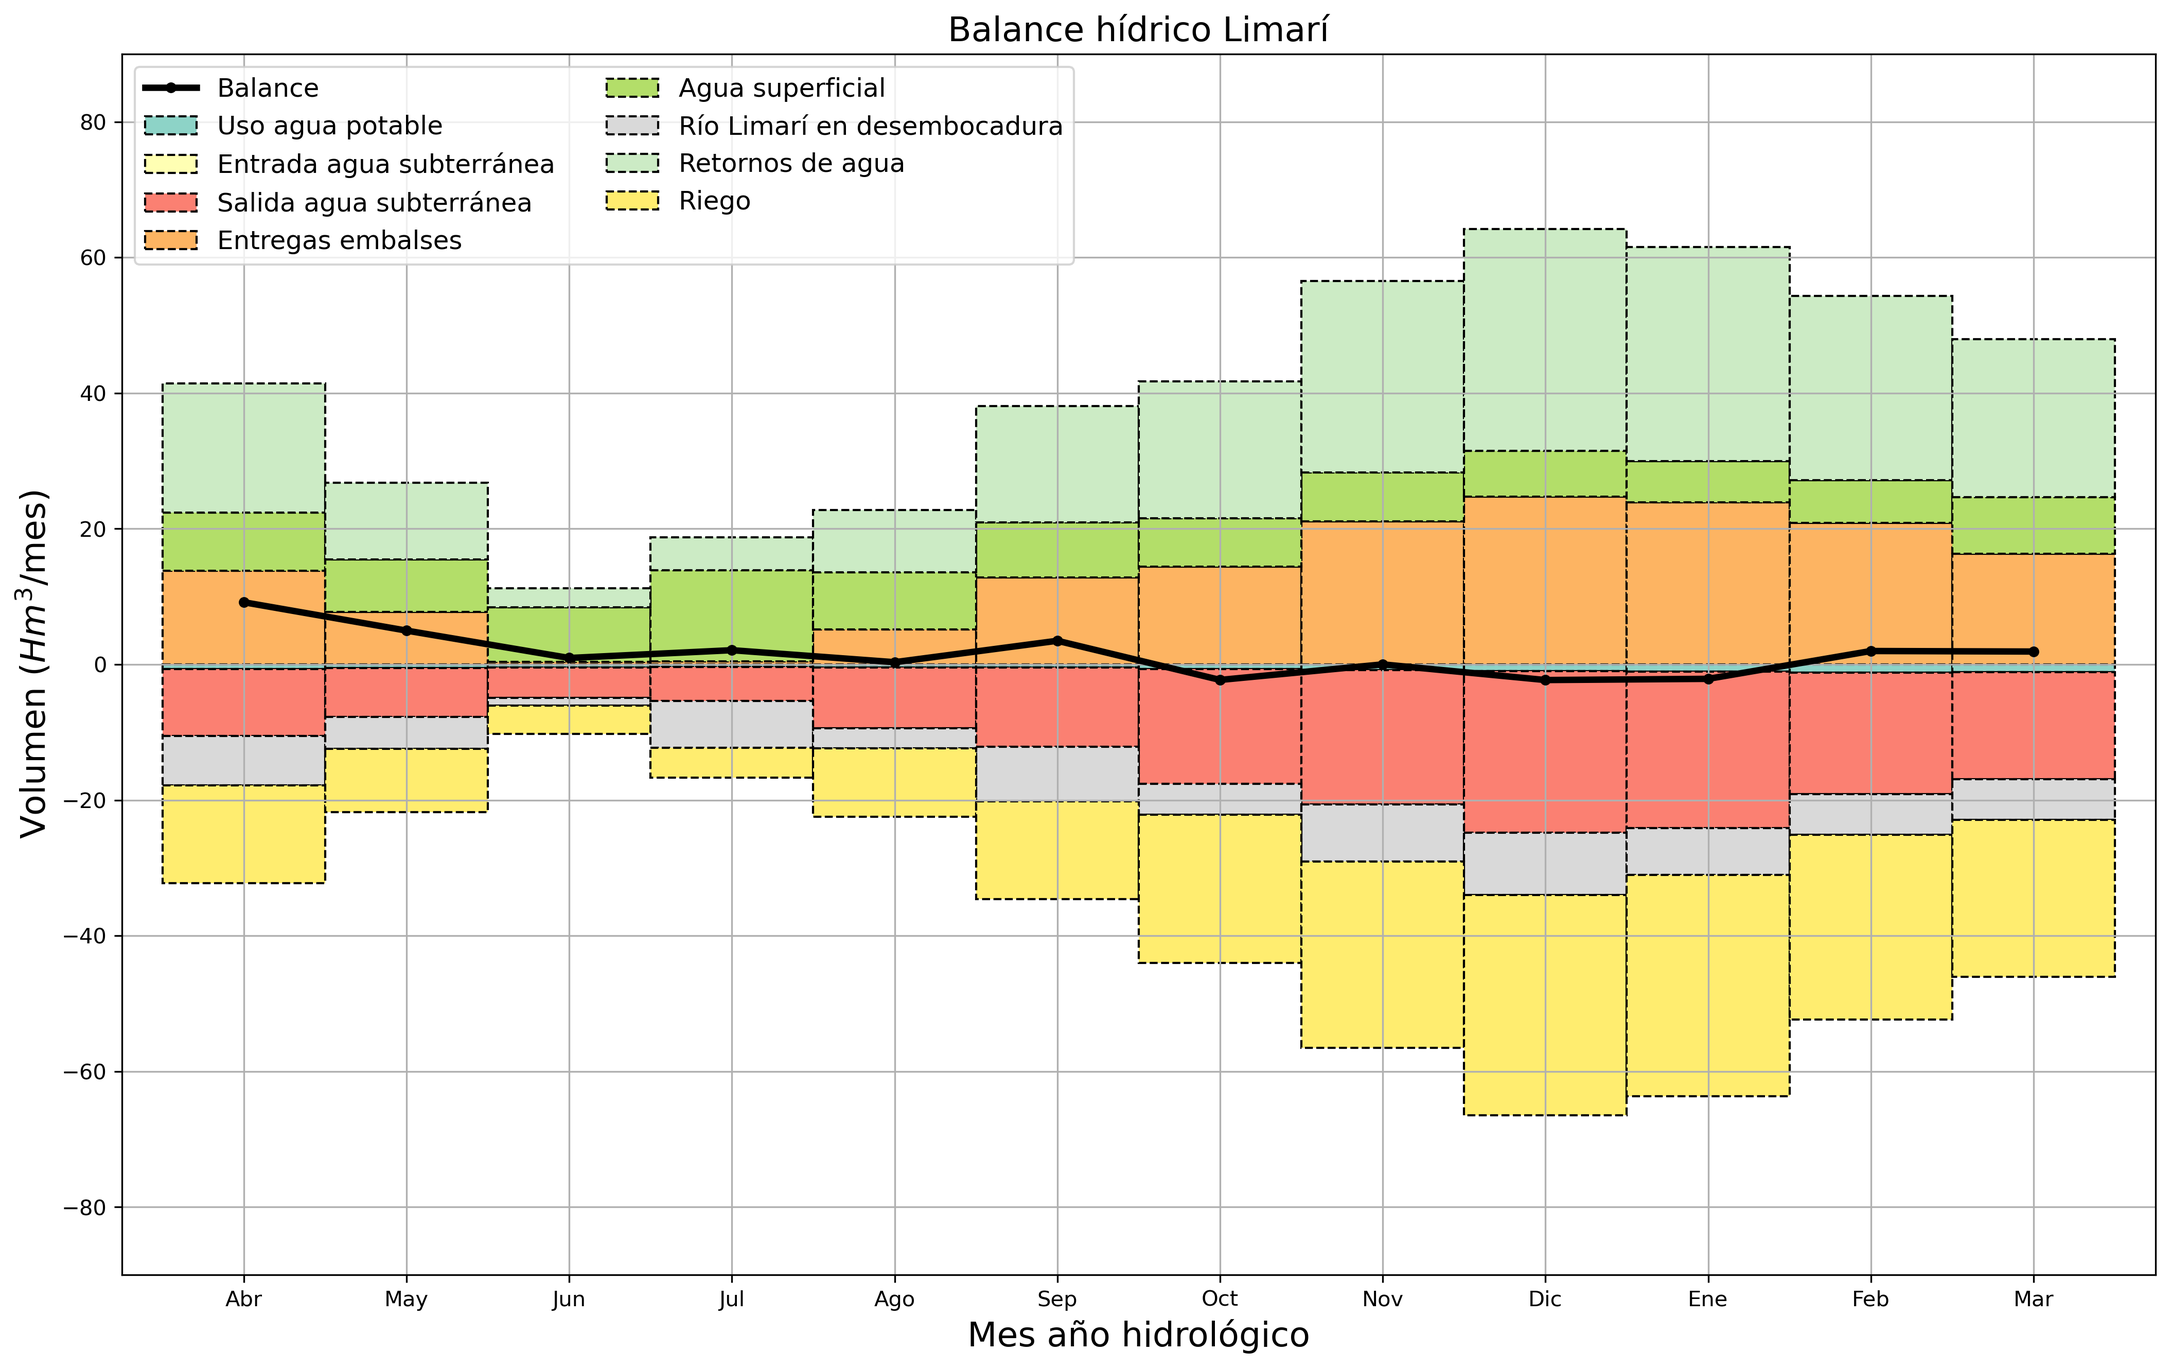
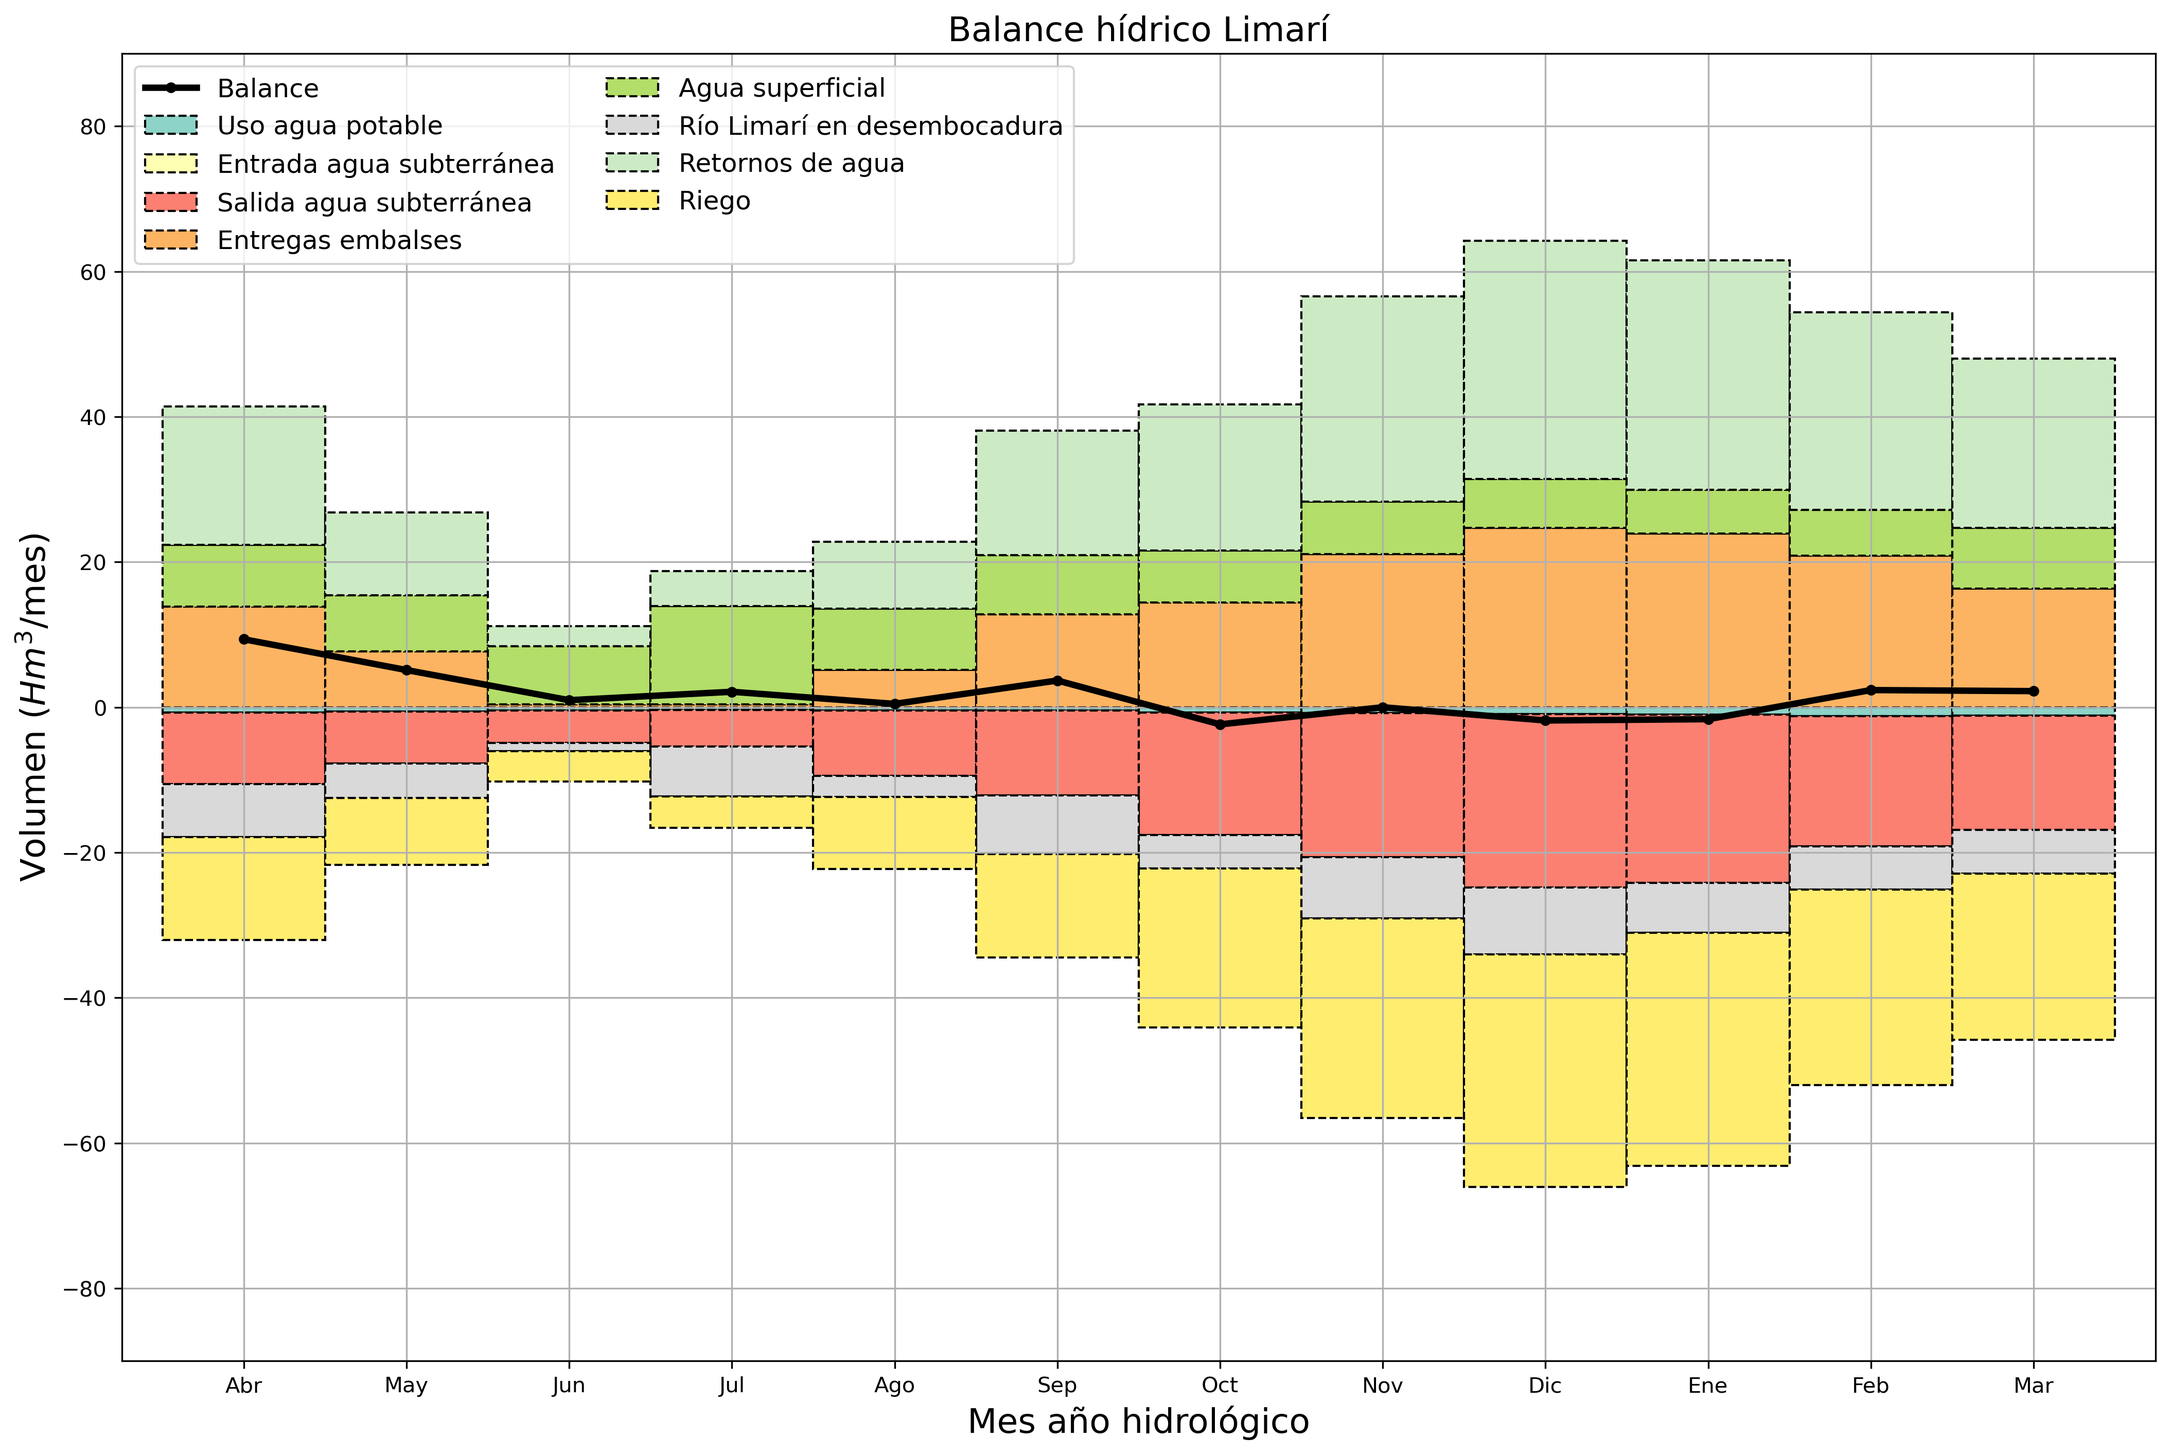
add: checkpoint

diff --git a/src/balanceLimari.py b/src/balanceLimari.py
@@ -278,7 +278,6 @@ def main():
         # entradas
         q=rio(root)
         hfF=pd.DataFrame(headflows(root)).astype(float)
-        # hfF=hfF[[x for x in hfF.columns if 'Rio Hurtado  0 \ Headflow' not in x]]
 
         tl=TL(root)
         riego=tl
@@ -292,7 +291,12 @@ def main():
         embalses=embalses.fillna(0)
         embalses=embalses[embalses.columns[embalses.columns.str.contains('Storage')]]
 
-        AP=tl[tl.columns[tl.columns.str.contains('|'.join(['SSR','Sanitaria']))]]
+        # demanda otros usos
+        IND=tl[tl.columns[tl.columns.str.contains('|'.join(['IND']))]]
+        MIN=tl[tl.columns[tl.columns.str.contains('|'.join(['MIN']))]]
+        PEC=tl[tl.columns[tl.columns.str.contains('|'.join(['PEC']))]]
+        AP=tl[tl.columns[tl.columns.str.contains('|'.join(['SSR',
+                                                           'Sanitaria']))]]
         riego=riego[riego.columns[4:]]
         qDesemb=pd.DataFrame(q.iloc[:,-1])
 
@@ -303,7 +307,6 @@ def main():
 
         GWin=GWin[[x for x in GWin.columns if 'Outflow' in x]]
         GWout=GWout[[x for x in GWout.columns if 'Inflow' in x]]
-
         GWout.index=index()
 
         entradas=suma([sr,embalses,GWin,hfF,retornoRio])
@@ -322,7 +325,11 @@ def main():
             df['qDesemb']=dfTocol(qDesemb.multiply(-1))
             df['GWout']=dfTocol(GWout.multiply(-1))
             df['riego']=ineficienciaRiego*dfTocol(riego.multiply(-1))
-
+            df['IND']=dfTocol(IND.multiply(-1))
+            df['MIN']=dfTocol(MIN.multiply(-1))
+            df['PEC']=dfTocol(PEC.multiply(-1))
+            df['GWout']=df['GWout']+df['GWin']
+            del df['GWin']
             df=df.loc[(df.index>=datei) & (df.index<=datef)]
             
             #plot balance Alternativa X
@@ -348,59 +355,272 @@ def main():
         print(r.x)
 
         return dfRet(datei,datef,r.x)
+
+    def balanceRapel(datei,datef):
+        root=r'G:\OneDrive - ciren.cl\2022_ANID_sequia\Proyecto\3_Objetivo3\Resultados'
+        root=os.path.join(root,'Rapel')
+        # entradas
+        hfF=pd.DataFrame(headflows(root)).astype(float)
+        hfF.index=index()
+
+        def filterDf(df,lista):
+            dfRet=df[[x for x in df.columns if any(map(x.__contains__,lista))]]
+            return pd.DataFrame(dfRet)
         
-    #%%    
-    datei='2020-04-01'
-    datef='2021-03-01'
-    # datei='2015-04-01'
-    # datef='2016-03-01'
+        # headflows Rapel
+        heads=['AN_04','CL_05','CL_06','Rio Palomo','Rio Rapel','CL_07','CL_08',
+            'Rio Los Molles']
+        hfF=filterDf(hfF,heads)
+        tl=TL(root)
 
-    # agrupa las demandas de los dos SHACs
-    dfHurtado=balanceHurtado(datei,datef).astype(float)
-    dfLimari=balanceLimari(datei,datef)
+        cols=[x for x in tl.columns if ('rap' in x.lower()) & ('Withdrawal' in x) | ('RIEG_14_19_RR' in x)]
+        riego=filterDf(tl,cols)
 
-    balance = pd.concat([dfHurtado, dfLimari],axis=1)
+        # agua potable
+        AP=tl[[x for x in tl.columns if 'AP_AC_RAP_01' in x]]
 
-    balance=balance.groupby(lambda x:x, axis=1).sum()
+        GWin,GWout=GW(root)
+        GWin=filterDf(GWin,['AC_RAP_01'])
+        GWout=filterDf(GWout,['AC_RAP_01'])
 
-    balance.columns=['Uso agua potable','Entrada agua subterránea',
-                     'Salida agua subterránea','Entregas embalses',
-                     'Agua superficial',
-                     'Río Limarí en desembocadura',
-                     'Retornos de agua','Riego','sr']
+        retornoRio=pd.read_csv(os.path.join(root,'ril.csv'),index_col=0)
+        retornoRio.index=index()
+
+        colsRIL=[x for x in retornoRio.columns if 'rap' in str.lower(x)]
+        retornoRio=retornoRio[colsRIL]
+
+        qDesemb=pd.read_csv(os.path.join(root,'Rapel.csv'),index_col=0)
+        qDesemb.index=index()
+        qDesemb=pd.DataFrame(qDesemb.iloc[:,-1])
+
+        # caudal de entrada del Limari PROMMRA
+        qAfluPROM=pd.read_csv(os.path.join(root,'RapelEnJunta.csv'),index_col=0)
+        qAfluPROM.index=index()
+        qAfluPROM=pd.DataFrame(qAfluPROM.iloc[:,-1])
+
+        deficit=pd.read_csv(os.path.join(root,'unmetD.csv'),index_col=0)
+        deficit.index=index()
+        deficit=deficit[[x for x in deficit.columns if any(map(x.__contains__,
+                                                        ['rap']))]]
+        def fixRapel(df):
+            diff=df['qAfluPROM']-df['qDesemb']
+            idx=diff[diff<0].index
+            df.loc[idx,'GWin']=df.loc[idx,'GWin'].values-diff.loc[idx].values
+            idx=diff[diff>0].index
+            df.loc[idx,'GWout']=df.loc[idx,'GWout'].values-diff.loc[idx].values
+            df['qDesemb']=df['qAfluPROM'].values
+            del df['qAfluPROM']
+            return df
+
+        df=pd.DataFrame(index=index())
+        df['headflows']=dfTocol(hfF)
+        df['retornoRio']=dfTocol(retornoRio)
+        df['qDesemb']=-dfTocol(qDesemb)
+        df['qAfluPROM']=-dfTocol(qAfluPROM)
+        df['GWin']=-dfTocol(GWin)
+        df['GWout']=-dfTocol(GWout)
+        df['riego']=-dfTocol(riego)
+        df['AP']=-dfTocol(AP)
+        df=fixRapel(df)
+        df=df.apply(lambda x: x*df.index.daysinmonth.values)
+        df=df.multiply(86400/1e6)
+        df=df.loc[(df.index>=datei) & (df.index<=datef)]
+        df.index=['Abr','May','Jun','Jul','Ago','Sep','Oct','Nov','Dic','Ene',
+                'Feb','Mar']
+        
+        return df        
     
-    balance['Agua superficial']=balance['Agua superficial']+balance['sr']
-    del balance['sr']
+    def balanceMostazal(datei,datef):
+        root=r'G:\OneDrive - ciren.cl\2022_ANID_sequia\Proyecto\3_Objetivo3\Resultados'
+        root=os.path.join(root,'Mostazal')
+        # entradas
+        hfF=pd.DataFrame(headflows(root)).astype(float)
+        hfF.index=index()
 
-    balance['Salida agua subterránea']=balance['Salida agua subterránea']+balance['Entrada agua subterránea']
-    balance['Entrada agua subterránea']=0*balance['Entrada agua subterránea']
+        def filterDf(df,lista):
+            dfRet=df[[x for x in df.columns if any(map(x.__contains__,lista))]]
+            return pd.DataFrame(dfRet)
+        
+        # headflows Rapel
+        heads=['AN_03','CL_03']
+        hfF=filterDf(hfF,heads)
+        tl=TL(root)
 
-    plt.close('all')
-    fig, axes = plt.subplots(figsize = (17,11))
-    sumas=pd.DataFrame(balance.sum(axis=1))
-    balance.index=sumas.index
-    balance.plot(stacked=True, kind = 'bar', grid=True, ax = axes,
-                 legend=False,rot=0,colormap='Set3',
-                 edgecolor='k', width=1, linestyle="--")
+        cols=[x for x in tl.columns if ('r_most' in x.lower()) & ('Withdrawal' in x)]
+        riego=filterDf(tl,cols)
 
-    sumas.plot(ax=axes, kind = 'line', grid=True, color = 'black',
-            label = 'Total', linewidth = 3, markersize = 4,
-            legend=False,marker='o',linestyle='-')
-    fs=16
-    axes.set_ylabel('Volumen ($Hm^3$/mes)',fontsize=fs)
-    axes.set_xlabel('Mes año hidrológico',fontsize=fs)
-    axes.set_title('Balance hídrico Limarí',fontsize=fs)
-    axes.legend(['Balance']+list(balance.columns),loc='best', ncol=2,
-                fontsize=12)
-    balance.sum(axis=1)
+        # agua potable
+        AP=tl[[x for x in tl.columns if 'AP_MOS01' in x]]
 
-    if datei=='2020-04-01':
-        axes.set_ylim([-90,90])
-        plt.savefig('balance_Limari_Hurtado_2020.png',dpi=300,
-                    bbox_inches='tight')
-    else:
-        plt.savefig('balance_Limari_Hurtado_2015.png',dpi=300,
-                    bbox_inches='tight')
+        GWin,GWout=GW(root)
+        GWin=filterDf(GWin,['AC_MOS_01'])
+        GWout=filterDf(GWout,['AC_MOS_01'])
+
+        retornoRio=pd.read_csv(os.path.join(root,'ril.csv'),index_col=0)
+        retornoRio.index=index()
+
+        colsRIL=[x for x in retornoRio.columns if 'most' in str.lower(x)]
+        retornoRio=retornoRio[colsRIL]
+
+        qDesemb=pd.read_csv(os.path.join(root,'Mostazal.csv'),index_col=0)
+        qDesemb.index=index()
+        qDesemb=pd.DataFrame(qDesemb.iloc[:,-1])
+
+        # caudal de entrada del Limari PROMMRA
+        qAfluPROM=pd.read_csv(os.path.join(root,'mostazalDesembocadura.csv'),
+                              index_col=0)
+        qAfluPROM.index=index()
+        qAfluPROM=pd.DataFrame(qAfluPROM.iloc[:,-1])
+
+        def fixMostazal(df):
+            diff=df['qAfluPROM']-df['qDesemb']
+            idx=diff[diff<0].index
+            df.loc[idx,'GWin']=df.loc[idx,'GWin'].values-diff.loc[idx].values
+            idx=diff[diff>0].index
+            df.loc[idx,'GWout']=df.loc[idx,'GWout'].values-diff.loc[idx].values
+            df['qDesemb']=df['qAfluPROM'].values
+            del df['qAfluPROM']
+            return df
+
+        df=pd.DataFrame(index=index())
+        df['headflows']=dfTocol(hfF)
+        df['retornoRio']=dfTocol(retornoRio)
+        df['qDesemb']=-dfTocol(qDesemb)
+        df['qAfluPROM']=-dfTocol(qAfluPROM)
+        df['GWin']=-dfTocol(GWin)
+        df['GWout']=-dfTocol(GWout)
+        df['riego']=-dfTocol(riego)
+        df['AP']=-dfTocol(AP)
+        df=fixMostazal(df)
+        df=df.apply(lambda x: x*df.index.daysinmonth.values)
+        df=df.multiply(86400/1e6)
+        df=df.loc[(df.index>=datei) & (df.index<=datef)]
+        df.index=['Abr','May','Jun','Jul','Ago','Sep','Oct','Nov','Dic','Ene',
+                'Feb','Mar']
+        return df
+    #%%    
+    def balanceSHACLimari(datei,datef):
+        # datei='2015-04-01'
+        # datef='2016-03-01'
+
+        # agrupa las demandas de los dos SHACs
+        dfLimari=balanceLimari(datei,datef)
+        dfRapel=balanceRapel(datei,datef)
+        dfMostazal=balanceMostazal(datei,datef)
+
+        dfLimari['headflows']=dfLimari['headflows'].values+dfRapel['qDesemb'].values+dfMostazal['qDesemb'].values
+        del dfRapel['qDesemb']
+        del dfMostazal['qDesemb']  
+        balance = pd.concat([dfRapel,dfMostazal,dfLimari],axis=1)
+
+        balance=balance.groupby(lambda x:x, axis=1).sum()
+
+        balance.columns=['Uso agua potable','Entrada agua subterránea',
+                        'Salida agua subterránea','Uso industrial',
+                        'Uso minería','Uso pecuario','Entregas embalses',
+                        'Agua superficial',
+                        'Río Limarí en desembocadura',
+                        'Retornos de agua','Riego','sr']
+        
+        balance['Agua superficial']=balance['Agua superficial']+balance['sr']
+        del balance['sr']
+
+        balance['Salida agua subterránea']=balance['Salida agua subterránea']+balance['Entrada agua subterránea']
+        balance['Entrada agua subterránea']=0*balance['Entrada agua subterránea']
+
+        plt.close('all')
+        fig, axes = plt.subplots(figsize = (17,11))
+        sumas=pd.DataFrame(balance.sum(axis=1))
+        balance.index=sumas.index
+        balance.plot(stacked=True, kind = 'bar', grid=True, ax = axes,
+                    legend=False,rot=0,colormap='Set3',
+                    edgecolor='k', width=1, linestyle="--")
+
+        sumas.plot(ax=axes, kind = 'line', grid=True, color = 'black',
+                label = 'Total', linewidth = 3, markersize = 4,
+                legend=False,marker='o',linestyle='-')
+        fs=16
+        axes.set_ylabel('Volumen ($Hm^3$/mes)',fontsize=fs)
+        axes.set_xlabel('Mes año hidrológico',fontsize=fs)
+        axes.set_title('Balance hídrico Limarí',fontsize=fs)
+        axes.legend(['Balance']+list(balance.columns),loc='best', ncol=2,
+                    fontsize=12)
+        unmetD2020=[0.0662459,0.0564198,0.0525379,0.1368770,0.1220770,0.2171360,
+                    0.2261390,0.6010160,1.0263600,0.9745250,0.7091160,0.2906740]
+        unmetD2015=[0.85410600,0.45570300,0.24526200,0.22282140,0.06601740,
+0.08971860,0.00029400,0.00564240,0.11683680,0.64045800,0.69492000,0.34250340,]
+        
+        balance['Balance']=balance.sum(axis=1)
+        if '2020' in datei:
+            balance['Demanda insatisfecha']=unmetD2020
+        else:
+            balance['Demanda insatisfecha']=unmetD2015
+        
+        balance.columns=[x+' (Hm3/mes)' for x in balance.columns]
+        return balance
+
+    # balanceSHACLimari2015=balanceSHACLimari('2015-04-01','2016-03-01')
+    # balanceSHACLimari2020=balanceSHACLimari('2020-04-01','2021-03-01')
+
+    def cuencaLimari():
+        datei='2020-04-01'
+        datef='2021-03-01'
+        # datei='2015-04-01'
+        # datef='2016-03-01'
+
+        # agrupa las demandas de los dos SHACs
+        dfHurtado=balanceHurtado(datei,datef).astype(float)
+        dfLimari=balanceLimari(datei,datef)
+        dfRapel=balanceRapel(datei,datef)
+        dfMostazal=balanceMostazal(datei,datef)
+        
+        dfLimari['headflows']=dfLimari['headflows'].values+dfRapel['qDesemb'].values+dfMostazal['qDesemb'].values+dfHurtado['qDesemb'].values
+        del dfRapel['qDesemb']
+        del dfMostazal['qDesemb'] 
+        del dfHurtado['qDesemb']
+
+        balance = pd.concat([dfHurtado, dfLimari],axis=1)
+
+        balance=balance.groupby(lambda x:x, axis=1).sum()
+
+        balance.columns=['Uso agua potable','Entrada agua subterránea',
+                        'Salida agua subterránea','Entregas embalses',
+                        'Agua superficial',
+                        'Río Limarí en desembocadura',
+                        'Retornos de agua','Riego','sr']
+        
+        balance['Agua superficial']=balance['Agua superficial']+balance['sr']
+        del balance['sr']
+
+        balance['Salida agua subterránea']=balance['Salida agua subterránea']+balance['Entrada agua subterránea']
+        balance['Entrada agua subterránea']=0*balance['Entrada agua subterránea']
+
+        plt.close('all')
+        fig, axes = plt.subplots(figsize = (17,11))
+        sumas=pd.DataFrame(balance.sum(axis=1))
+        balance.index=sumas.index
+        balance.plot(stacked=True, kind = 'bar', grid=True, ax = axes,
+                    legend=False,rot=0,colormap='Set3',
+                    edgecolor='k', width=1, linestyle="--")
+
+        sumas.plot(ax=axes, kind = 'line', grid=True, color = 'black',
+                label = 'Total', linewidth = 3, markersize = 4,
+                legend=False,marker='o',linestyle='-')
+        fs=16
+        axes.set_ylabel('Volumen ($Hm^3$/mes)',fontsize=fs)
+        axes.set_xlabel('Mes año hidrológico',fontsize=fs)
+        axes.set_title('Balance hídrico Limarí',fontsize=fs)
+        axes.legend(['Balance']+list(balance.columns),loc='best', ncol=2,
+                    fontsize=12)
+        balance.sum(axis=1)
+
+        if datei=='2020-04-01':
+            axes.set_ylim([-90,90])
+            plt.savefig('balance_Limari_Hurtado_2020.png',dpi=300,
+                        bbox_inches='tight')
+        else:
+            plt.savefig('balance_Limari_Hurtado_2015.png',dpi=300,
+                        bbox_inches='tight')
             
 
 #%%

diff --git a/src/Mostazal.py b/src/Mostazal.py
@@ -287,7 +287,6 @@ def main():
     deficit=deficit[[x for x in deficit.columns if any(map(x.__contains__,
                                                     ['most']))]]
     
-    #%%
     def fixMostazal(df):
         diff=df['qAfluPROM']-df['qDesemb']
         idx=diff[diff<0].index
@@ -298,7 +297,6 @@ def main():
         del df['qAfluPROM']
         return df
 
-# 1.06102358
     def plots(ineficienciaRiego=1.08):
         df=pd.DataFrame(index=index())
         df['headflows']=dfTocol(hfF)

diff --git a/src/limari.py b/src/limari.py
@@ -338,8 +338,8 @@ def main():
         df=df.apply(lambda x: x*df.index.daysinmonth.values)
         df=df.multiply(86400/1e6)
 
-        df=df.loc[(df.index>='2015-04-01') & (df.index<='2016-03-01')]
-        # df=df.loc[(df.index>='2020-04-01') & (df.index<='2021-03-01')]
+        # df=df.loc[(df.index>='2015-04-01') & (df.index<='2016-03-01')]
+        df=df.loc[(df.index>='2020-04-01') & (df.index<='2021-03-01')]
 
         df['GWout']=df['GWout']+df['GWin']
         del df['GWin']
